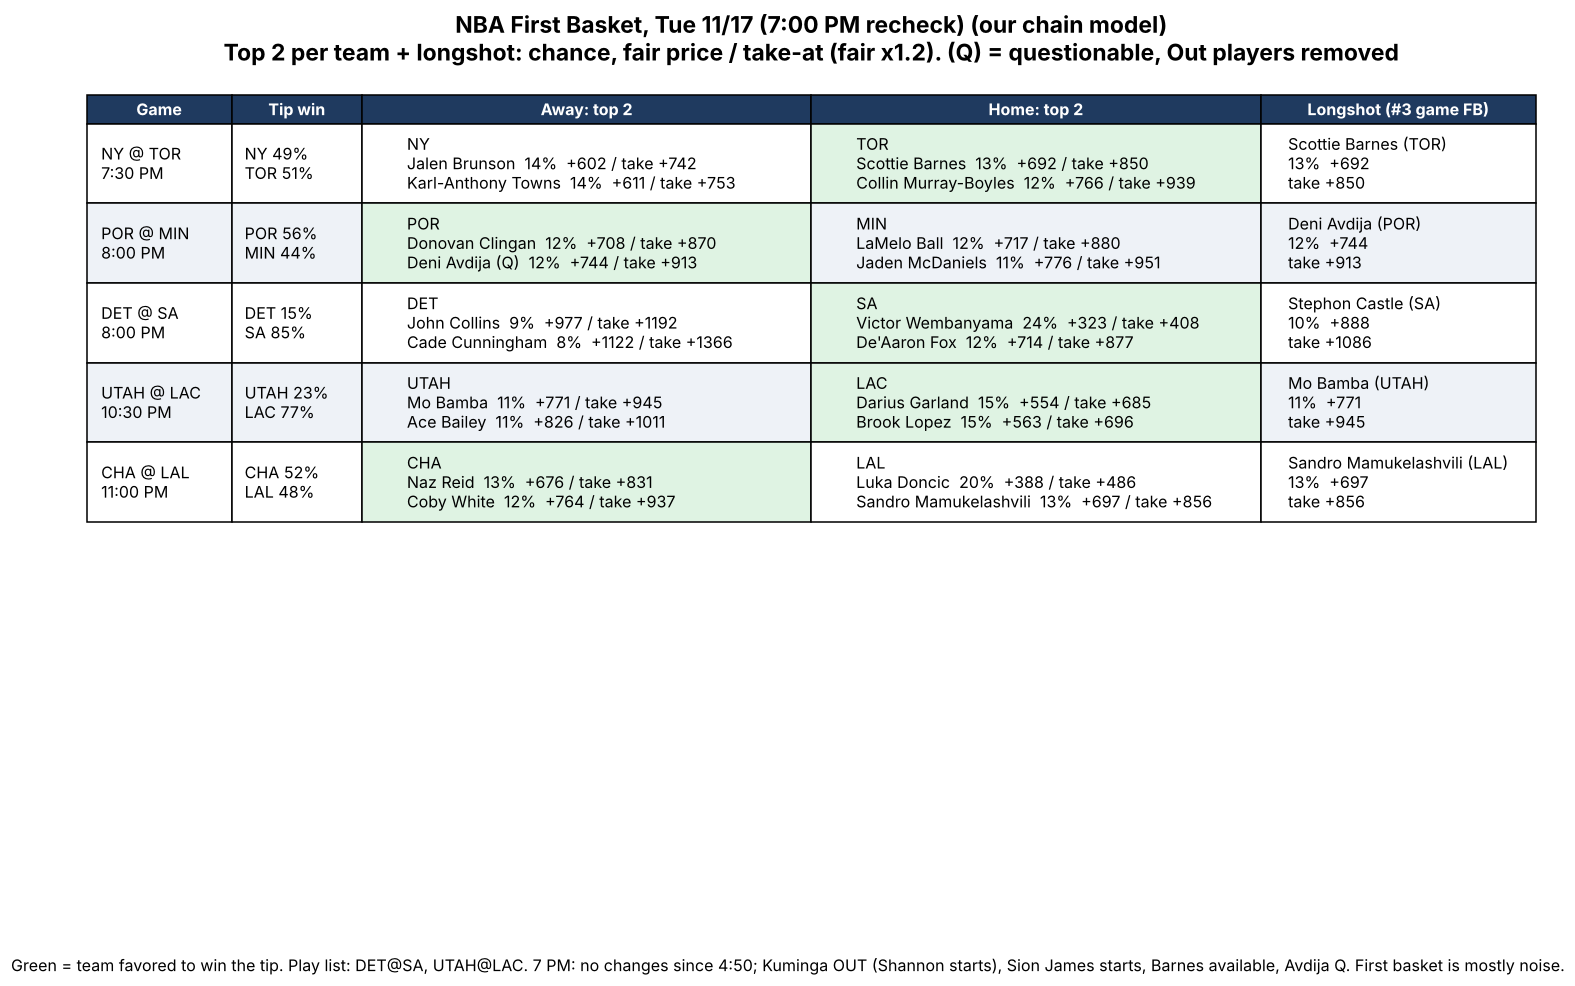
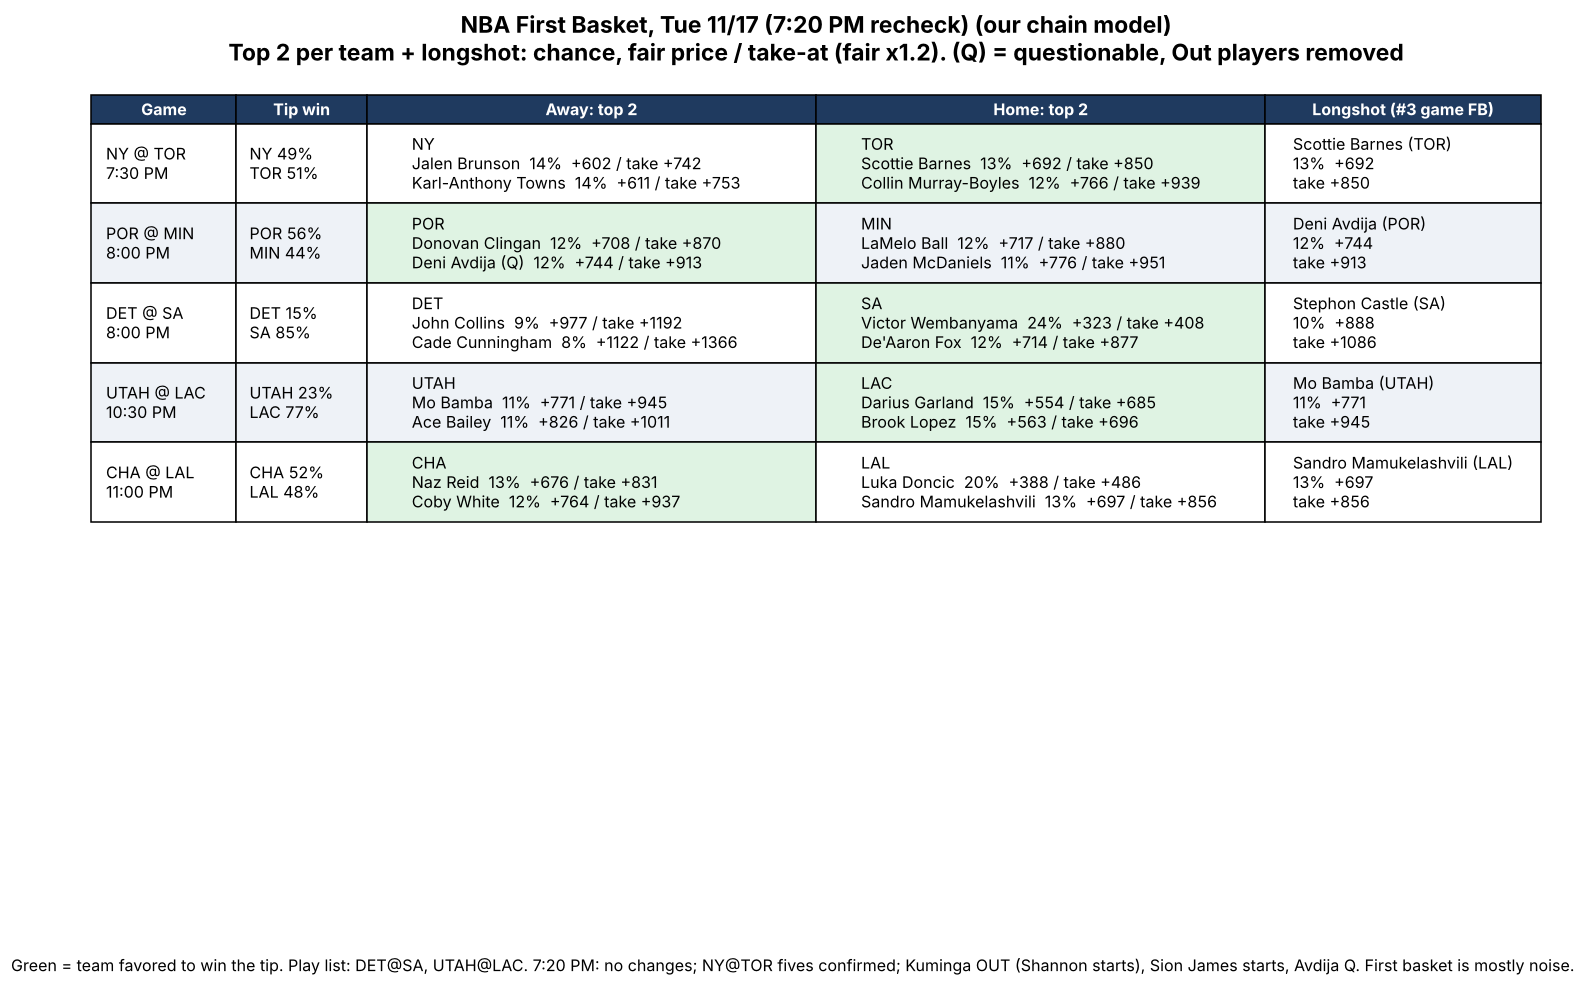
NBA 11/17 7:20 PM recheck: no changes, charts re-rendered
Claude-Session: https://claude.ai/code/session_01TQWUAJSyeczoh1eaRjRwmB

diff --git a/analysis/nba/out/charts/plan_chart.py b/analysis/nba/out/charts/plan_chart.py
@@ -13,7 +13,7 @@ ax=fig.add_axes([0,0,1,1]); ax.set_xlim(0,100); ax.set_ylim(44,200); ax.axis('of
 def card(x,y,w,h): ax.add_patch(FancyBboxPatch((x,y),w,h,boxstyle='round,pad=0.4,rounding_size=1.5',fc=CARD,ec='#2c3850',lw=1))
 ax.text(5,195,'NBA PLAN  •  '+DATE,color=TXT,fontsize=17,weight='bold',va='center')
 ax.text(5,190.5,'Plan $35.50 of $36  •  Straights $30  •  Method $3.50  •  2-leg $2',color=MUTED,fontsize=8.6,va='center')
-ax.text(5,186.8,'7 PM recheck: no changes. Skipped: NY@TOR 51%, POR@MIN 56%, CHA@LAL 52%',color=MUTED,fontsize=8.4,va='center')
+ax.text(5,186.8,'7:20 PM recheck: no changes. Skipped: NY@TOR 51%, POR@MIN 56%, CHA@LAL 52%',color=MUTED,fontsize=8.4,va='center')
 ax.text(5,182,'FIRST BASKET  (top 3 straights, $5 each)',color=GOLD,fontsize=11,weight='bold',va='center')
 y=178
 for g,t,tip,picks,note in fb:

diff --git a/analysis/nba/out/charts/team_chart.py b/analysis/nba/out/charts/team_chart.py
@@ -14,7 +14,7 @@ for r in d: by.setdefault(r['tm'],[]).append(r)
 BG='#0f1420'; CARD='#1a2233'; TXT='#e8ecf3'; MUTED='#9aa4b5'; GOLD='#f5c542'; BLUE='#5aa9ff'; GREEN='#4cd38a'; RED='#ff6b6b'
 fig=plt.figure(figsize=(7.2,12.8),dpi=200); fig.patch.set_facecolor(BG)
 ax=fig.add_axes([0,0,1,1]); ax.set_xlim(0,100); ax.set_ylim(0,178); ax.axis('off')
-ax.text(5,173,'TEAM FIRST BASKET  •  TUE 11/17 (7:00 PM)',color=TXT,fontsize=16,weight='bold',va='center')
+ax.text(5,173,'TEAM FIRST BASKET  •  TUE 11/17 (7:20 PM)',color=TXT,fontsize=16,weight='bold',va='center')
 ax.text(5,168.6,'Top 2 per team: chance to score his team\'s first points, fair odds, take-at (fair x1.2)',color=MUTED,fontsize=8,va='center')
 ax.text(5,165,'Gold border = on tonight\'s play list (tip 70%+)',color=GOLD,fontsize=8,va='center')
 y=161; h=18.2

diff --git a/analysis/nba/out/play_list_2026-11-17.md b/analysis/nba/out/play_list_2026-11-17.md
@@ -1,4 +1,4 @@
-# NBA first basket bets, Tue 11/17 (7:00 PM recheck)
+# NBA first basket bets, Tue 11/17 (7:20 PM recheck)
 
 **Plan $35.50** (FanDuel $39.41 at 12:22 PM, $1 already on Rutgers; target about $36):
 6 straights at $5 = $30.00, 5 method longshots = $3.50, 4 two-leg at $0.50 = $2.00. Keeps $3.91 in the account.
@@ -12,6 +12,7 @@ Skipped (tip under 70%, no model-accuracy exception):
 Season team top-2 hit rate 91/184 (49%).
 4:50 PM changes (RotoWire, NBA 4:45 PM report, ESPN): no change to either play-list game's five or jumper; Isaiah Joe OUT (was not starting). Picks and prices unchanged.
 7:00 PM recheck (NBA 7 PM report, RotoWire): no starter or jumper changes in any game; Barnes now available; Avdija still questionable. Tips and play list unchanged; no game crosses 70%.
+7:20 PM recheck (NBA 7:15 PM report, RotoWire; ESPN starters not posted yet): no changes. NY@TOR fives confirmed by RotoWire; Avdija still questionable.
 First basket is mostly noise; keep to the plan. Recheck about 30 min before tip. In game order, check off as you place.
 
 ## Straights, $5.00 each (6 = $30.00)

diff --git a/analysis/nba/out/solid_parlays_2026-11-17.md b/analysis/nba/out/solid_parlays_2026-11-17.md
@@ -1,6 +1,6 @@
-# Solid 2-leg parlays, Tue 11/17 (7:00 PM recheck)
+# Solid 2-leg parlays, Tue 11/17 (7:20 PM recheck)
 
-Solid = both our #1 and #2 are starting and not questionable (RotoWire 7:00 PM, NBA 7 PM report).
+Solid = both our #1 and #2 are starting and not questionable (RotoWire 7:20 PM, NBA 7:15 PM report; NY@TOR confirmed).
 2 of 2 play-list games qualify:
 - DET@SA 8:00: Wembanyama, Fox
 - UTAH@LAC 10:30: Garland, Lopez
